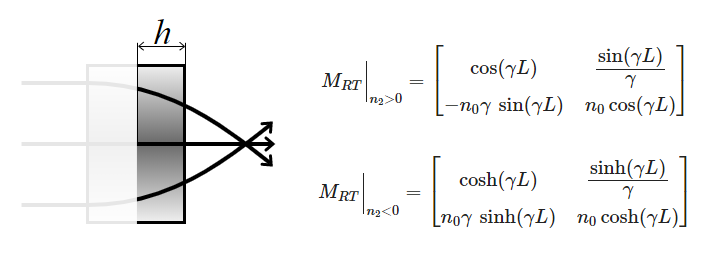
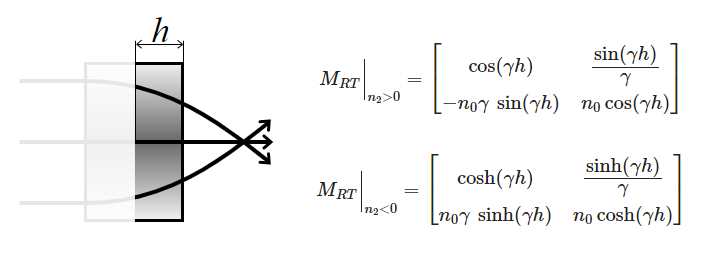
help files for complex elements

diff --git a/help/matrix/ElemGrinLens.html b/help/matrix/ElemGrinLens.html
@@ -5,43 +5,8 @@
     <meta charset="utf-8">
     <meta name="viewport" content="width=device-width">
     <script id="MathJax-script" async src="https://cdn.jsdelivr.net/npm/mathjax@3/es5/tex-chtml.js"></script>
+    <link rel="stylesheet" href="matrix_formula.css" type="text/css"></link> 
   </head>
-  <style>
-  body {
-    display: flex;
-    flex-direction: row;
-  }
-  .paper {
-    display: flex;
-    flex-direction: column;
-    position: relative;
-    font-size: 125%;
-    color: #222;
-  }
-  .drawing-and-formula {
-    display: flex;
-    flex-direction: row;
-  }
-  .formulas-column {
-    margin-left: 40px;
-    margin-right: 20px;
-  }
-  .frames {
-    display: flex;
-    flex-direction: column;
-    position: absolute;
-    left: 0;
-    right: 0;
-  }
-  .frame {
-    border: 1px dashed red;
-  }
-  .drawing {
-    margin-left: 20px;
-  }
-  .stretch {
-  }
-  </style>
   <body>
     <div class="paper">
       <div class="frames">
@@ -50,7 +15,7 @@
         <div class="frame" style="height: 260px; margin-top: 10px;"></div>
       </div>
       <div>
-        \[ n(r) = n_0 - \frac { n_0 \; r^2 } 2
+        \[ n(r) = n_0 - \frac { n_2 \; r^2 } 2
           \;\;\;\;\;\;\;\;\;\;\;\;
           r^2 = x^2 + y^2
           \;\;\;\;\;\;\;\;\;\;\;\;
@@ -83,16 +48,16 @@
           <div style="margin-top:135px">
             \[
             M_{LF}\bigg\rvert_{n_2 > 0} = \begin{bmatrix}
-                \cos(\gamma L) & \cfrac {\sin(\gamma L)} {n_0 \gamma} \\
-                -\gamma \: \sin(\gamma L) & \cfrac {\cos(\gamma L)} {n_0} 
+                \cos(\gamma h) & \cfrac {\sin(\gamma h)} {n_0 \gamma} \\
+                -\gamma \: \sin(\gamma h) & \cfrac {\cos(\gamma h)} {n_0} 
                 \end{bmatrix}
             \]
           </div>
           <div style="margin-top:40px">
             \[
             M_{LF}\bigg\rvert_{n_2 < 0} = \begin{bmatrix}
-                \cosh(\gamma L) & \cfrac { \sinh(\gamma L) } {n_0 \gamma} \\
-                \gamma \: \sinh(\gamma L) & \cfrac {\cosh(\gamma L)} {n_0}
+                \cosh(\gamma h) & \cfrac { \sinh(\gamma h) } {n_0 \gamma} \\
+                \gamma \: \sinh(\gamma h) & \cfrac {\cosh(\gamma h)} {n_0}
                 \end{bmatrix}
             \]
           </div>
@@ -100,16 +65,16 @@
           <div style="margin-top:85px">
             \[
             M_{RT}\bigg\rvert_{n_2 > 0} = \begin{bmatrix}
-                \cos(\gamma L) & \cfrac {\sin(\gamma L)} {\gamma} \\
-                -n_0 \gamma \: \sin(\gamma L) & n_0 \cos(\gamma L) 
+                \cos(\gamma h) & \cfrac {\sin(\gamma h)} {\gamma} \\
+                -n_0 \gamma \: \sin(\gamma h) & n_0 \cos(\gamma h) 
                 \end{bmatrix}
             \]
           </div>
           <div style="margin-top:40px">
             \[
             M_{RT}\bigg\rvert_{n_2 < 0} = \begin{bmatrix}
-                \cosh(\gamma L) & \cfrac {\sinh(\gamma L)} {\gamma} \\
-                n_0 \gamma \: \sinh(\gamma L) & n_0 \cosh(\gamma L) 
+                \cosh(\gamma h) & \cfrac {\sinh(\gamma h)} {\gamma} \\
+                n_0 \gamma \: \sinh(\gamma h) & n_0 \cosh(\gamma h) 
                 \end{bmatrix}
             \]
           </div>

diff --git a/help/matrix/ElemGaussAperture.html b/help/matrix/ElemGaussAperture.html
@@ -1,0 +1,57 @@
+<!DOCTYPE html>
+
+<html>
+  <head>
+    <meta charset="utf-8">
+    <meta name="viewport" content="width=device-width">
+    <script id="MathJax-script" async src="https://cdn.jsdelivr.net/npm/mathjax@3/es5/tex-chtml.js"></script>
+    <link rel="stylesheet" href="matrix_formula.css" type="text/css"></link> 
+  </head>
+  <body>
+    <div class="paper">
+      <div class="frames">
+        <div class="frame" style="height: 400px"></div>
+        <div class="frame" style="height: 400px; margin-top: 10px;"></div>
+      </div>
+      <div class="drawing-and-formula">
+        <div style="margin-top:20px">
+          <img class="drawing" src="../../img/elem/ElemGaussAperture.svg"/>
+        </div>
+        <div class="formulas-column" style="margin-left: 60px">
+          <div style="margin-top:85px">
+            \[ r^2 = x^2 + y^2 \]
+          </div>
+          <div style="margin-top:50px">
+            \[ \alpha(r) = \alpha_0 + \frac { \alpha_2 \; r^2 } 2 \]
+          </div>
+          <div style="margin-top:50px">
+            \[ M = \begin{bmatrix}
+              1 & 0 \\
+              -i \cfrac {\lambda \alpha_2} {2 \pi}  & 1 
+              \end{bmatrix} \]
+          </div>
+        </div>
+      </div>
+      <div class="drawing-and-formula">
+        <div style="margin-top:65px">
+          <img class="drawing" src="../../img/elem/ElemGaussApertureLens.svg"/>
+        </div>
+        <div class="formulas-column" style="margin-left: 60px">
+          <div style="margin-top:120px">
+            \[ r^2 = x^2 + y^2 \]
+          </div>
+          <div style="margin-top:50px">
+            \[ \alpha(r) = \alpha_0 + \frac { \alpha_2 \; r^2 } 2 \]
+          </div>
+          <div style="margin-top:50px">
+            \[ M = \begin{bmatrix}
+                1 & 0 \\
+                - \cfrac {1} {F} - i \cfrac {\lambda \alpha_2} {2 \pi}  & 1 
+                \end{bmatrix} \]
+          </div>
+        </div>
+      </div>
+    </div> <!-- end paper -->
+    <div class="stretch"></div>
+  </body>
+</html>

diff --git a/help/matrix/ElemGaussDuct.html b/help/matrix/ElemGaussDuct.html
@@ -1,0 +1,37 @@
+<!DOCTYPE html>
+
+<html>
+  <head>
+    <meta charset="utf-8">
+    <meta name="viewport" content="width=device-width">
+    <script id="MathJax-script" async src="https://cdn.jsdelivr.net/npm/mathjax@3/es5/tex-chtml.js"></script>
+    <link rel="stylesheet" href="matrix_formula.css" type="text/css"></link> 
+  </head>
+  <body>
+    <div class="paper">
+      <div class="frames">
+        <div class="frame" style="height: 430px"></div>
+      </div>
+      <div class="drawing-and-formula">
+        <div style="margin-top:20px">
+          <img class="drawing" src="../../img/elem/ElemGaussDuctSlab.svg"/>
+        </div>
+        <div class="formulas-column" style="margin-left: 60px">
+          <div style="margin-top:50px">
+            \[ r^2 = x^2 + y^2 \]
+          </div>
+          <div style="margin-top:50px">
+            \[ n(r) = n_0 - \frac { n_2 \; r^2 } 2 \]
+          </div>
+          <div style="margin-top:50px">
+            \[ \alpha(r) = \alpha_0 + \frac { \alpha_2 \; r^2 } 2 \]
+          </div>
+          <div style="margin-top:50px">
+            \[ \gamma = \frac {n_2} {n_0} + i \frac {\lambda \alpha_2} {2 \pi} \]
+          </div>
+        </div>
+      </div>
+    </div> <!-- end paper -->
+    <div class="stretch"></div>
+  </body>
+</html>

diff --git a/help/matrix/ElemGrinMedium.html b/help/matrix/ElemGrinMedium.html
@@ -5,44 +5,15 @@
     <meta charset="utf-8">
     <meta name="viewport" content="width=device-width">
     <script id="MathJax-script" async src="https://cdn.jsdelivr.net/npm/mathjax@3/es5/tex-chtml.js"></script>
+    <link rel="stylesheet" href="matrix_formula.css" type="text/css"></link> 
   </head>
-  <style>
-  body {
-    display: flex;
-    flex-direction: row;
-  }
-  .paper {
-    display: flex;
-    flex-direction: column;
-    position: relative;
-    font-size: 125%;
-    color: #222;
-  }
-  .drawing-and-formula {
-    display: flex;
-    flex-direction: row;
-  }
-  .formulas-column {
-    margin-left: 40px;
-    margin-right: 20px;
-  }
-  .frame {
-    position: absolute;
-    border: 1px dashed red;
-    left: 0;
-    right: 0;
-  }
-  .drawing {
-    margin-left: 20px;
-  }
-  .stretch {
-  }
-  </style>
   <body>
     <div class="paper">
-      <div class="frame" style="top: 0; height: 565px"></div>
+      <div class="frames">
+        <div class="frame" style="top: 0; height: 565px"></div>
+      </div>
       <div>
-        \[ n(r) = n_0 - \frac { n_0 \; r^2 } 2
+        \[ n(r) = n_0 - \frac { n_2 \; r^2 } 2
           \;\;\;\;\;\;\;\;\;\;\;\;
           r^2 = x^2 + y^2
         \]

diff --git a/help/matrix/matrix_formula.css b/help/matrix/matrix_formula.css
@@ -1,0 +1,34 @@
+body {
+  display: flex;
+  flex-direction: row;
+}
+.paper {
+  display: flex;
+  flex-direction: column;
+  position: relative;
+  font-size: 125%;
+  color: #222;
+}
+.drawing-and-formula {
+  display: flex;
+  flex-direction: row;
+}
+.formulas-column {
+  margin-left: 40px;
+  margin-right: 20px;
+}
+.frames {
+  display: flex;
+  flex-direction: column;
+  position: absolute;
+  left: 0;
+  right: 0;
+}
+.frame {
+  border: 1px dashed red;
+}
+.drawing {
+  margin-left: 20px;
+}
+.stretch {
+}

diff --git a/help/matrix/ElemGaussDuctMedium.rst b/help/matrix/ElemGaussDuctMedium.rst
@@ -1,0 +1,18 @@
+.. index:: single: gaussian duct (medium)
+
+Gaussian duct (medium)
+======================
+
+The element is implemented according to Siegman book "Lasers", chapter 20.3 "Gaussian apertures and complex ABCD matrices".
+
+A gaussian duct is a transversely inhomogeneous medium in which the refractive index and the absorption coefficient may both vary transversely.
+
+The coefficient `α` is the loss factor per unit length.
+
+The element has the same matrices as the :doc:`ElemGrinMedium` has, with the only difference that the parameter `γ` is a complex value.
+
+    .. image:: ElemGaussDuctMedium.png
+    
+.. seealso::
+
+    :doc:`ElemGaussDuctSlab`, :doc:`../elem_matrs`, :doc:`../catalog`, :doc:`../elem_props`

diff --git a/help/matrix/ElemGaussDuctSlab.rst b/help/matrix/ElemGaussDuctSlab.rst
@@ -1,0 +1,18 @@
+.. index:: single: gaussian duct (slab)
+
+Gaussian duct (stab)
+====================
+
+The element is implemented according to Siegman book "Lasers", chapter 20.3 "Gaussian apertures and complex ABCD matrices".
+
+A gaussian duct is a transversely inhomogeneous medium in which the refractive index and the absorption coefficient may both vary transversely.
+
+The coefficient `α` is the loss factor per unit length.
+
+The element has the same matrices as the :doc:`ElemGrinLens` has, with the only difference that the parameter `γ` is a complex value.
+
+    .. image:: ElemGaussDuctSlab.png
+    
+.. seealso::
+
+    :doc:`ElemGaussDuctMedium`, :doc:`../elem_matrs`, :doc:`../catalog`, :doc:`../elem_props`

diff --git a/help/matrix/ElemGaussAperture.rst b/help/matrix/ElemGaussAperture.rst
@@ -1,0 +1,18 @@
+.. index:: single: gaussian aperture
+.. index:: single: aperture (gaussian)
+
+Gaussian aperture
+=================
+
+The element is implemented according to Siegman book "Lasers", chapter 20.3 "Gaussian apertures and complex ABCD matrices".
+
+This is a thin optical element consisting of a "soft-aperture" which has a quadratic transversely varying wave-amplitude transmission.
+
+The coefficient `α` is the total loss factor through an aperture.
+
+    .. image:: ElemGaussAperture.png
+    
+.. seealso::
+
+    :doc:`ElemGaussApertureLens`, :doc:`../elem_matrs`, :doc:`../catalog`, :doc:`../elem_props`
+    

diff --git a/help/matrix/ElemGaussApertureLens.rst b/help/matrix/ElemGaussApertureLens.rst
@@ -1,0 +1,18 @@
+.. index:: single: gaussian lens
+.. index:: single: lens (gaussian)
+
+Gaussian aperture with thin lens
+================================
+
+The element is implemented according to Siegman book "Lasers", chapter 20.3 "Gaussian apertures and complex ABCD matrices".
+
+This a combination of a :doc:`ElemThinLens` or a :doc:`ElemCurveMirror` with :doc:`ElemGaussAperture`.
+
+The coefficient `α` is the total loss factor through an aperture.
+
+    .. image:: ElemGaussApertureLens.png
+    
+.. seealso::
+
+    :doc:`ElemGaussAperture`, :doc:`../elem_matrs`, :doc:`../catalog`, :doc:`../elem_props`
+    

diff --git a/help/elem_matrs.rst b/help/elem_matrs.rst
@@ -29,6 +29,10 @@ Interface elements have no index of refraction. Instead, they take indexes of ad
    matrix/ElemMatrix
    matrix/ElemEmptyRange
    matrix/ElemFlatMirror
+   matrix/ElemGaussAperture
+   matrix/ElemGaussApertureLens
+   matrix/ElemGaussDuctMedium
+   matrix/ElemGaussDuctSlab
    matrix/ElemGrinLens
    matrix/ElemGrinMedium
    matrix/ElemNormalInterface
